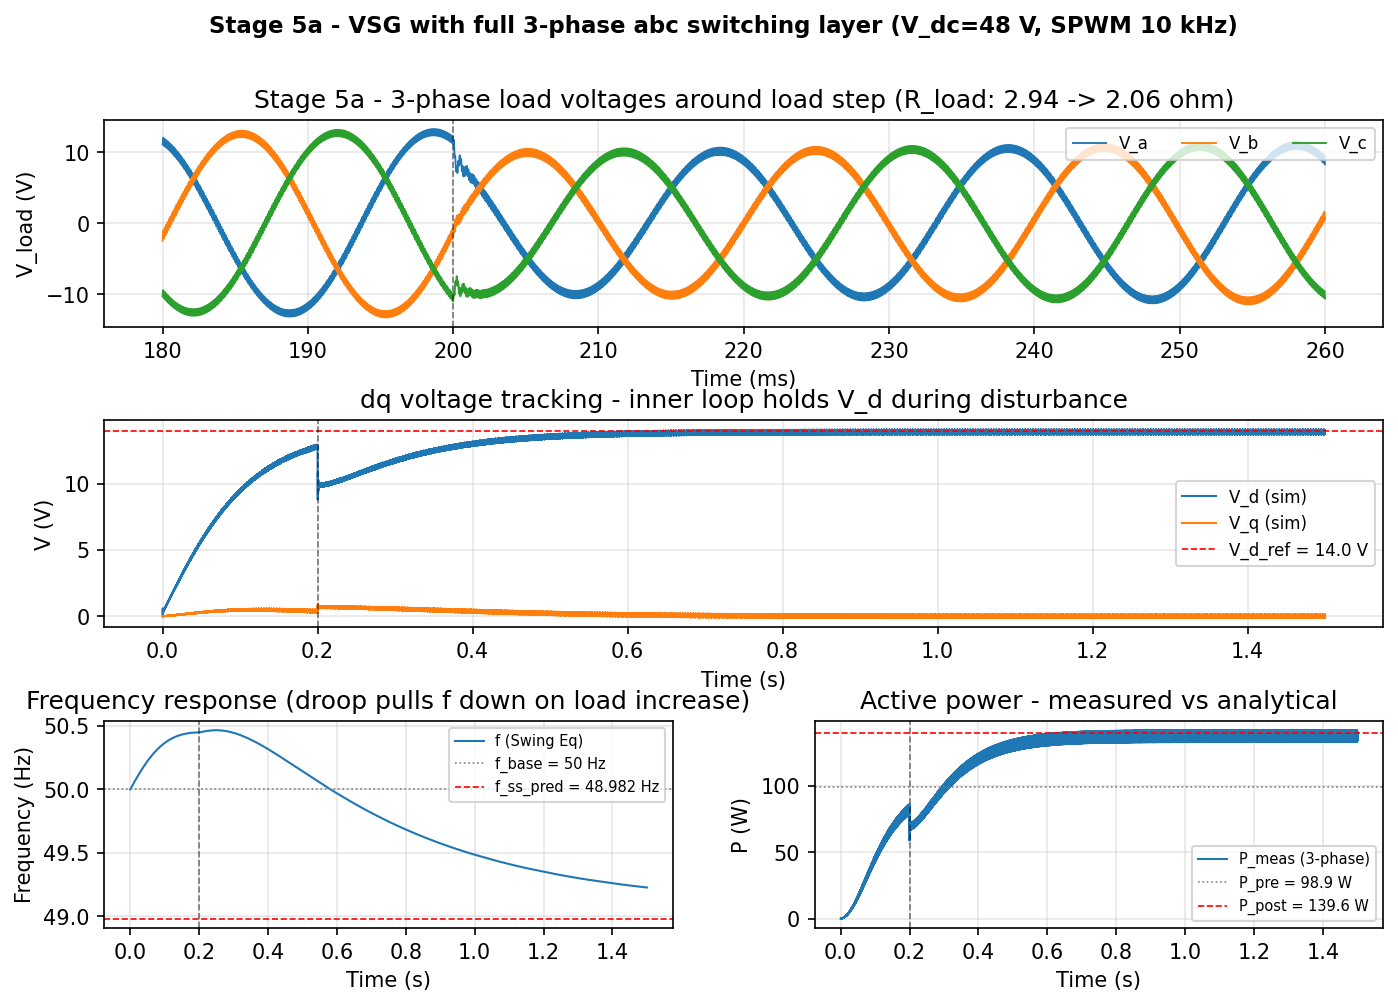
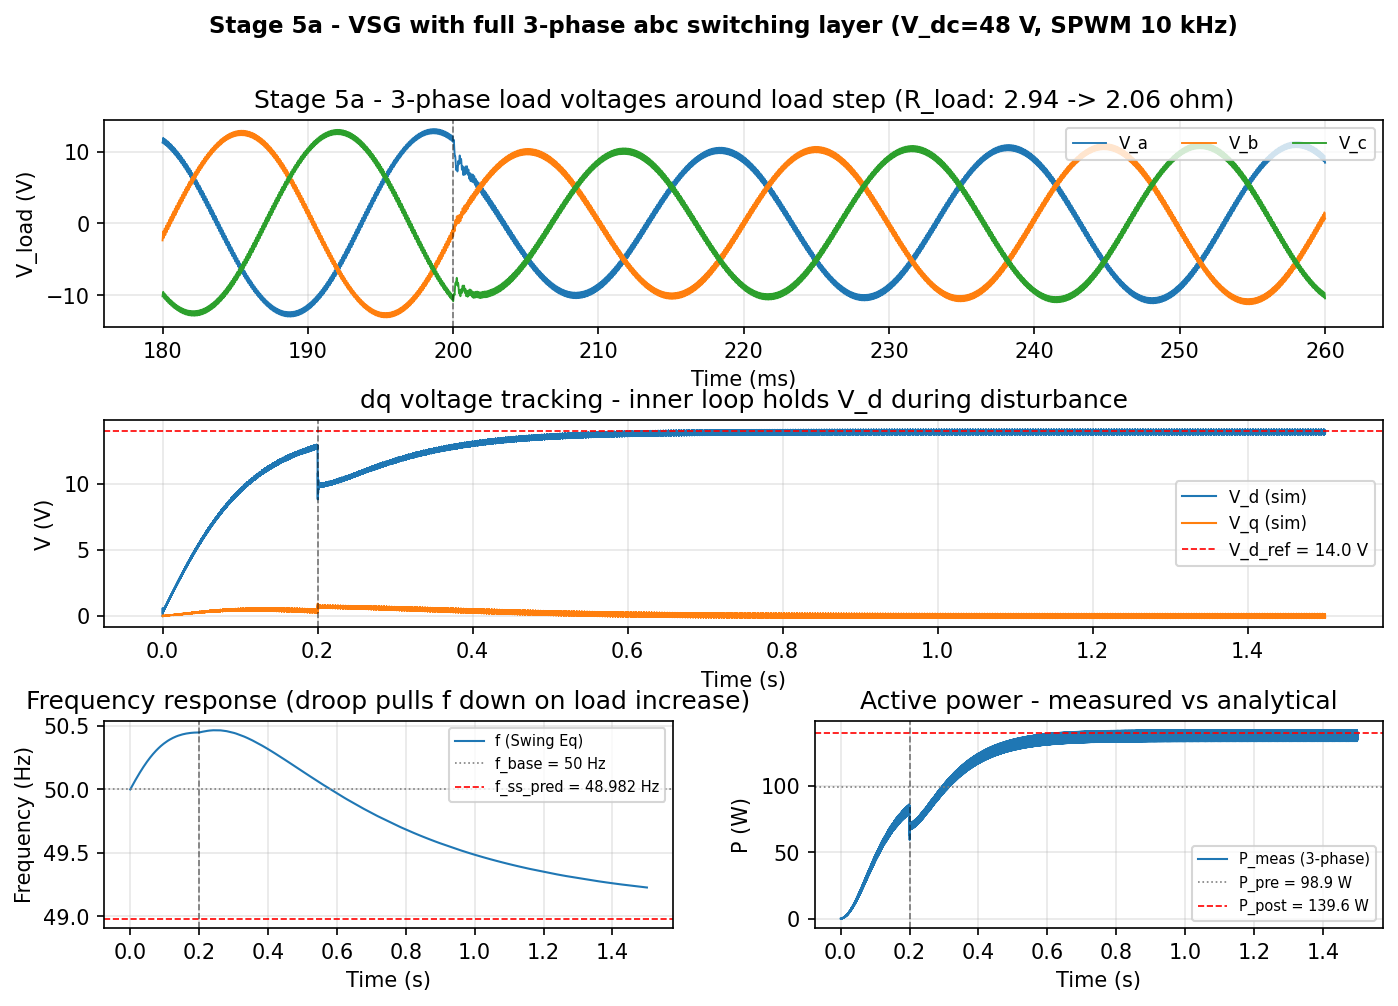
fix(sim): rerun Stage 5 chain at the locked 40 V design point
Simulation audit found the entire Stage 5 chain still ran at the
pre-lock V_dc = 48 V and phase5c's analytical f_ss self-check used a
droop-only formula that is ~10x off once damping is active.

- V_dc 48 -> 40 V in phase5a_switching_abc.m + phase5c_tuned.m
  (m = 0.70, matches vsg_controller.ino exactly). Metadata updated in
  phase5b_hd_sweep.m / phase5a_rerun_matched.m with a note that V_dc/2
  is baked into the built .slx.
- f_ss prediction now includes the damping term:
  dw_pu = -dP_pu/(1/R_p + D*omega_s). At D = 0.5 the D*omega_s ~ 157
  term dominates the droop term 1/R_p = 20 by ~8x (effective droop
  ~0.56%, not 5%). Stale 24 V / 1.91-ohm / "f_ss ~ 49.25 Hz" headers
  rewritten in both builders; 5a header notes its D = 0 final f is a
  mid-transient snapshot (T_sim = 1.5 s << droop-only settle).

Rerun results at 40 V (MATLAB R2018b):
  5c        : f_ss = 49.8959 Hz vs prediction 49.885 Hz (1.3% on df
              using measured dP) -- and vs 49.896 Hz from the 48 V
              5b sweep, empirically confirming the per-unit dynamics
              are V_dc-invariant (duty = 0.5 + v/V_dc cancels).
  5a matched: f_ss = 49.8960 Hz, consistent.
  5b sweep NOT rerun -- per-unit metrics V_dc-invariant (documented).

docs/figures/phase5a_switching.png regenerated from the 40 V run.

Claude-Session: https://claude.ai/code/session_01Pjs8MRXM4VjCyKHTviCX3g

diff --git a/matlab/phase5c_tuned.m b/matlab/phase5c_tuned.m
@@ -87,20 +87,24 @@
 %                         electrically decoupled at the AC side, so all
 %                         3-phase blocks vectorise cleanly.
 %
-%  ELECTRICAL DESIGN POINT  (same as Stage 4):
-%    V_dc      = 24 V
+%  ELECTRICAL DESIGN POINT  (locked hardware design, 2026-05-30):
+%    V_dc      = 40 V         (m = 14/20 = 0.70, linear SPWM)
 %    V_ac_peak = 14 V         (d-axis voltage setpoint)
 %    L_f       = 1.2 mH      C_f = 10 µF     →  f_res ≈ 1.45 kHz
-%    R_load    = 1.91 Ω      L_load = 1 mH   →  P ≈ 100 W, Q ≈ 16 VAR
+%    R_load    = 2.94 Ω      L_load = 1 mH   →  P ≈ 100 W (3-phase)
 %    f_sw      = 10 kHz       carrier period = 100 µs
 %
-%  DISTURBANCE: at t = 0.2 s, R_load drops to 0.7 × R_load
-%               (load impedance step ≈ +43 % current → ~+30 W active power)
+%  DISTURBANCE: at t = 1.0 s, R_load drops to 0.7 × R_load
+%               (load impedance step ≈ +43 % current → ~+40 W active power)
 %
-%  EXPECTED SS (post-disturb):
-%    P_meas ≈ 130 W   (Δ ≈ +30 W = +0.30 pu)
-%    Δf_droop = -R_p · ΔP · f_base = -0.05 · 0.30 · 50 = -0.75 Hz
-%    f_ss ≈ 49.25 Hz
+%  EXPECTED SS (post-disturb) — swing eq balance INCLUDING the D term:
+%    0 = ΔP_m − ΔP_e − D·Δω  with  ΔP_m = −Δω_pu/R_p  (P-f droop)
+%    → Δω_pu = −ΔP_pu / (1/R_p + D·ω_s)
+%    At D = 0.5 the damping term D·ω_s ≈ 157 dominates the droop
+%    term 1/R_p = 20 by ~8× (effective droop ≈ 0.56 %, not 5 %).
+%    ΔP_pu ≈ +0.4 → Δf ≈ −0.11 Hz → f_ss ≈ 49.89 Hz
+%    (measured ΔP is slightly smaller since Q-V droop lowers E a bit;
+%     Stage 5b CSV cell H5/D0.5 = 49.896 Hz)
 %
 %  Outputs:
 %      vsg_stage5c.slx
@@ -116,13 +120,15 @@
 
 % Electrical base
 %
-% V_dc changed from 24 V to 48 V on 2026-05-27 after Stage 5a discovered
-% that V_set = 14 V (peak) exceeded the linear SPWM range V_dc/2 = 12 V
-% of the 24 V design, causing overmodulation. With V_dc = 48 V the
-% modulation index drops to 14/24 = 0.58 — comfortable linear range,
-% no clamping, clean fundamental. 48 V matches the contingency BoM
-% option in proposal 66AOS02 and stays within the ≤60 V scope envelope.
-V_dc           = 48;             % DC bus (V)
+% V_dc history: 24 V → 48 V on 2026-05-27 (V_set = 14 V exceeded the
+% 24 V design's linear SPWM range V_dc/2 = 12 V, causing overmodulation).
+% 48 V → 40 V on 2026-05-30 when the hardware design point was locked
+% (design_point_reconciliation.md): m = 14/20 = 0.70 — still comfortably
+% linear, and matches the firmware (vsg_controller.ino) exactly so this
+% output is the valid Ch.6 bench-comparison baseline. Note the average
+% dynamics are V_dc-invariant (duty = 0.5 + v/V_dc cancels in the
+% fundamental); only PWM ripple magnitude changes (smaller at 40 V).
+V_dc           = 40;             % DC bus (V) — locked hardware design point
 P_base         = 100;            % rated 3-phase active power (W)
 Q_base         = 100;            % rated 3-phase reactive power (VAR)
 f_base         = 50;             % Hz
@@ -205,7 +211,12 @@ I_d_ss_post    = V_set / ZL_d_post;
 P_ss_post      = 1.5 * V_set * I_d_ss_post;                      % 3-phase
 
 dP_pu          = (P_ss_post - P_ss_pre)/P_base;
-df_ss_pred     = -R_p * dP_pu * f_base;
+% SS balance of the swing eq WITH damping (previous droop-only formula
+% -R_p*dP_pu*f_base was wrong by ~10x here — at D = 0.5 the damping
+% term D*omega_s ~ 157 dominates the droop term 1/R_p = 20):
+%   0 = -dw_pu/R_p - dP_pu - D*(dw_pu*omega_s)
+%   -> dw_pu = -dP_pu / (1/R_p + D*omega_s)
+df_ss_pred     = -dP_pu / (1/R_p + D*omega_s) * f_base;
 f_ss_pred      = f_base + df_ss_pred;
 
 %% --- SAFE MODEL INIT ----------------------------------------------------

diff --git a/matlab/phase5a_switching_abc.m b/matlab/phase5a_switching_abc.m
@@ -61,20 +61,25 @@
 %                         electrically decoupled at the AC side, so all
 %                         3-phase blocks vectorise cleanly.
 %
-%  ELECTRICAL DESIGN POINT  (same as Stage 4):
-%    V_dc      = 24 V
+%  ELECTRICAL DESIGN POINT  (locked hardware design, 2026-05-30):
+%    V_dc      = 40 V         (m = 14/20 = 0.70, linear SPWM)
 %    V_ac_peak = 14 V         (d-axis voltage setpoint)
 %    L_f       = 1.2 mH      C_f = 10 µF     →  f_res ≈ 1.45 kHz
-%    R_load    = 1.91 Ω      L_load = 1 mH   →  P ≈ 100 W, Q ≈ 16 VAR
+%    R_load    = 2.94 Ω      L_load = 1 mH   →  P ≈ 100 W (3-phase)
 %    f_sw      = 10 kHz       carrier period = 100 µs
 %
 %  DISTURBANCE: at t = 0.2 s, R_load drops to 0.7 × R_load
-%               (load impedance step ≈ +43 % current → ~+30 W active power)
+%               (load impedance step ≈ +43 % current → ~+40 W active power)
 %
-%  EXPECTED SS (post-disturb):
-%    P_meas ≈ 130 W   (Δ ≈ +30 W = +0.30 pu)
-%    Δf_droop = -R_p · ΔP · f_base = -0.05 · 0.30 · 50 = -0.75 Hz
-%    f_ss ≈ 49.25 Hz
+%  EXPECTED SS (post-disturb) — this baseline runs D = 0, so the pure
+%  droop relation applies (with D > 0 the D·ω_s term must be added,
+%  see phase5c_tuned.m):
+%    ΔP_pu ≈ +0.41 → Δf = -R_p · ΔP_pu · f_base ≈ -1.02 Hz
+%    f_ss ≈ 48.98 Hz
+%  CAVEAT: with D = 0 the droop-only swing settles much slower than
+%  T_sim = 1.5 s, so the final printed f (~49.23 Hz at t = 1.5 s) is a
+%  MID-TRANSIENT snapshot, not the SS value above. Use the matched rerun
+%  (phase5a_rerun_matched.m, T_sim = 3 s, D = 0.5) for SS comparisons.
 %
 %  Outputs:
 %      vsg_stage5a.slx
@@ -90,13 +95,14 @@
 
 % Electrical base
 %
-% V_dc changed from 24 V to 48 V on 2026-05-27 after Stage 5a discovered
-% that V_set = 14 V (peak) exceeded the linear SPWM range V_dc/2 = 12 V
-% of the 24 V design, causing overmodulation. With V_dc = 48 V the
-% modulation index drops to 14/24 = 0.58 — comfortable linear range,
-% no clamping, clean fundamental. 48 V matches the contingency BoM
-% option in proposal 66AOS02 and stays within the ≤60 V scope envelope.
-V_dc           = 48;             % DC bus (V)
+% V_dc history: 24 V → 48 V on 2026-05-27 (V_set = 14 V exceeded the
+% 24 V design's linear SPWM range V_dc/2 = 12 V, causing overmodulation).
+% 48 V → 40 V on 2026-05-30 when the hardware design point was locked
+% (design_point_reconciliation.md): m = 14/20 = 0.70, matches firmware.
+% NOTE: V_dc/2 is BAKED into the bridge gain + carrier amplitude of the
+% built .slx — phase5b_hd_sweep.m and phase5a_rerun_matched.m reuse that
+% model, so they inherit whatever V_dc this script was last built with.
+V_dc           = 40;             % DC bus (V) — locked hardware design point
 P_base         = 100;            % rated 3-phase active power (W)
 Q_base         = 100;            % rated 3-phase reactive power (VAR)
 f_base         = 50;             % Hz

diff --git a/matlab/phase5b_hd_sweep.m b/matlab/phase5b_hd_sweep.m
@@ -293,7 +293,10 @@ meta = struct();
 meta.timestamp    = datestr(now, 'yyyy-mm-dd HH:MM:SS');
 meta.T_sim        = T_sim_sweep;
 meta.R_load_t     = R_load_t_sweep;
-meta.V_dc         = 48;
+meta.V_dc         = 40;  % metadata only — actual value baked into vsg_stage5a.slx
+                         % (rebuild via phase5a_switching_abc.m at 40 V first).
+                         % Per-unit sweep metrics are V_dc-invariant (duty =
+                         % 0.5 + v/V_dc cancels in the fundamental).
 meta.R_p          = 0.05;
 meta.f_base       = f_base;
 meta.P_base       = P_base;

diff --git a/matlab/phase5a_rerun_matched.m b/matlab/phase5a_rerun_matched.m
@@ -97,7 +97,8 @@ R_f          = 0.05;
 zeta_filter  = R_f/2 * sqrt(C_f/L_f);
 f_res        = 1/(2*pi*sqrt(L_f*C_f));
 f_sw         = 10e3;
-V_dc         = 48;
+V_dc         = 40;   % metadata only — actual value is baked into vsg_stage5a.slx;
+                     % valid only if phase5a_switching_abc.m was rebuilt at 40 V first
 V_set        = 14;
 P_base       = 100;
 Q_base       = 100;
